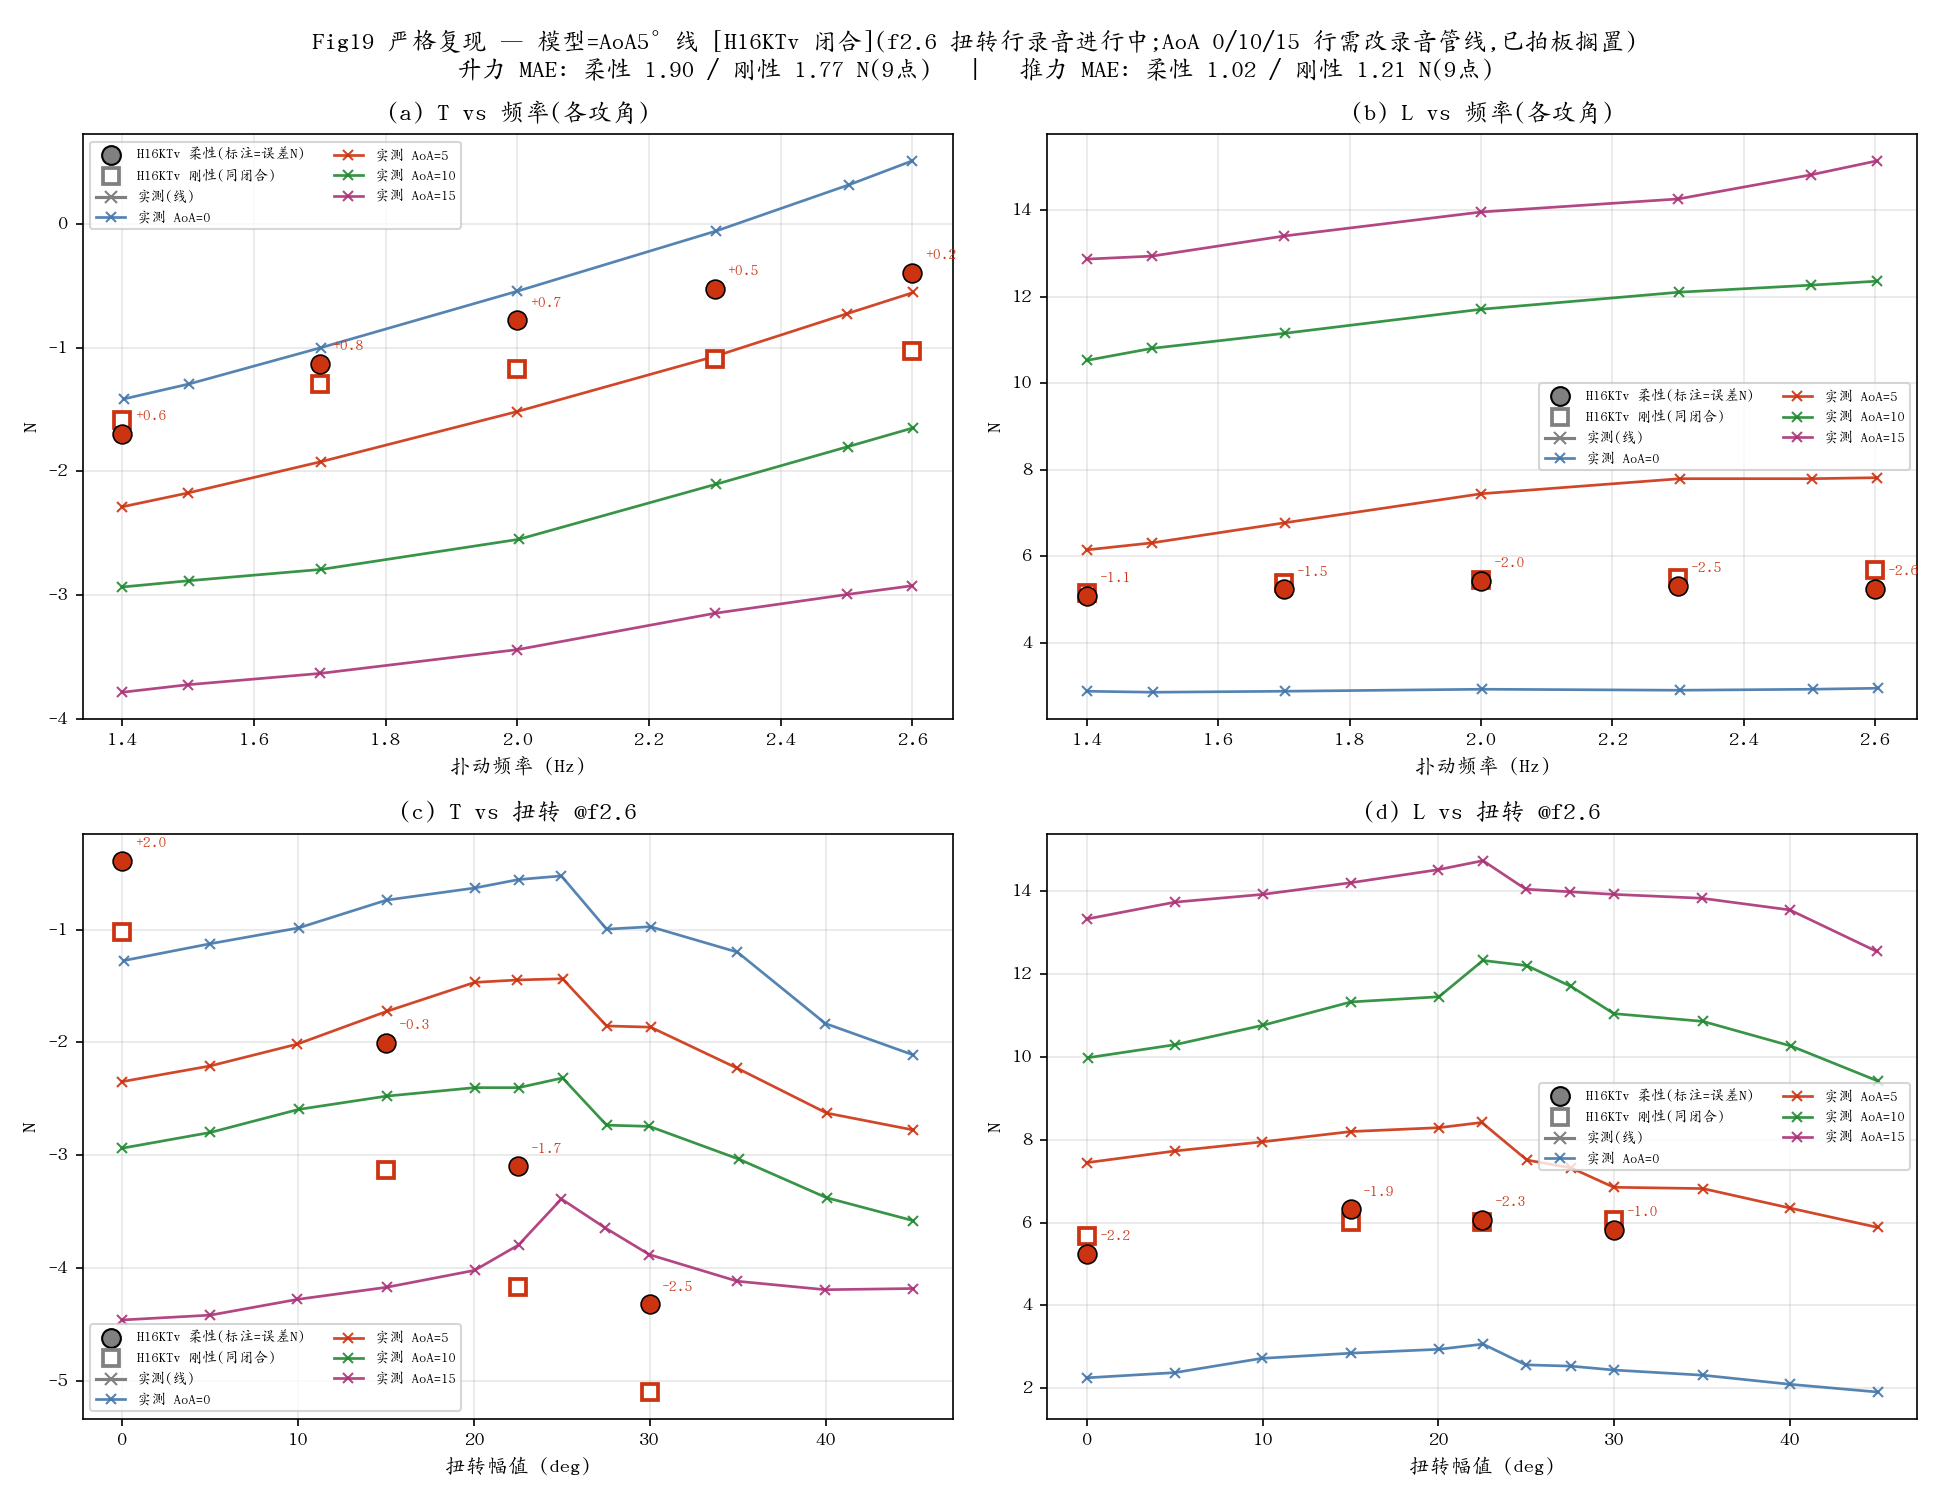
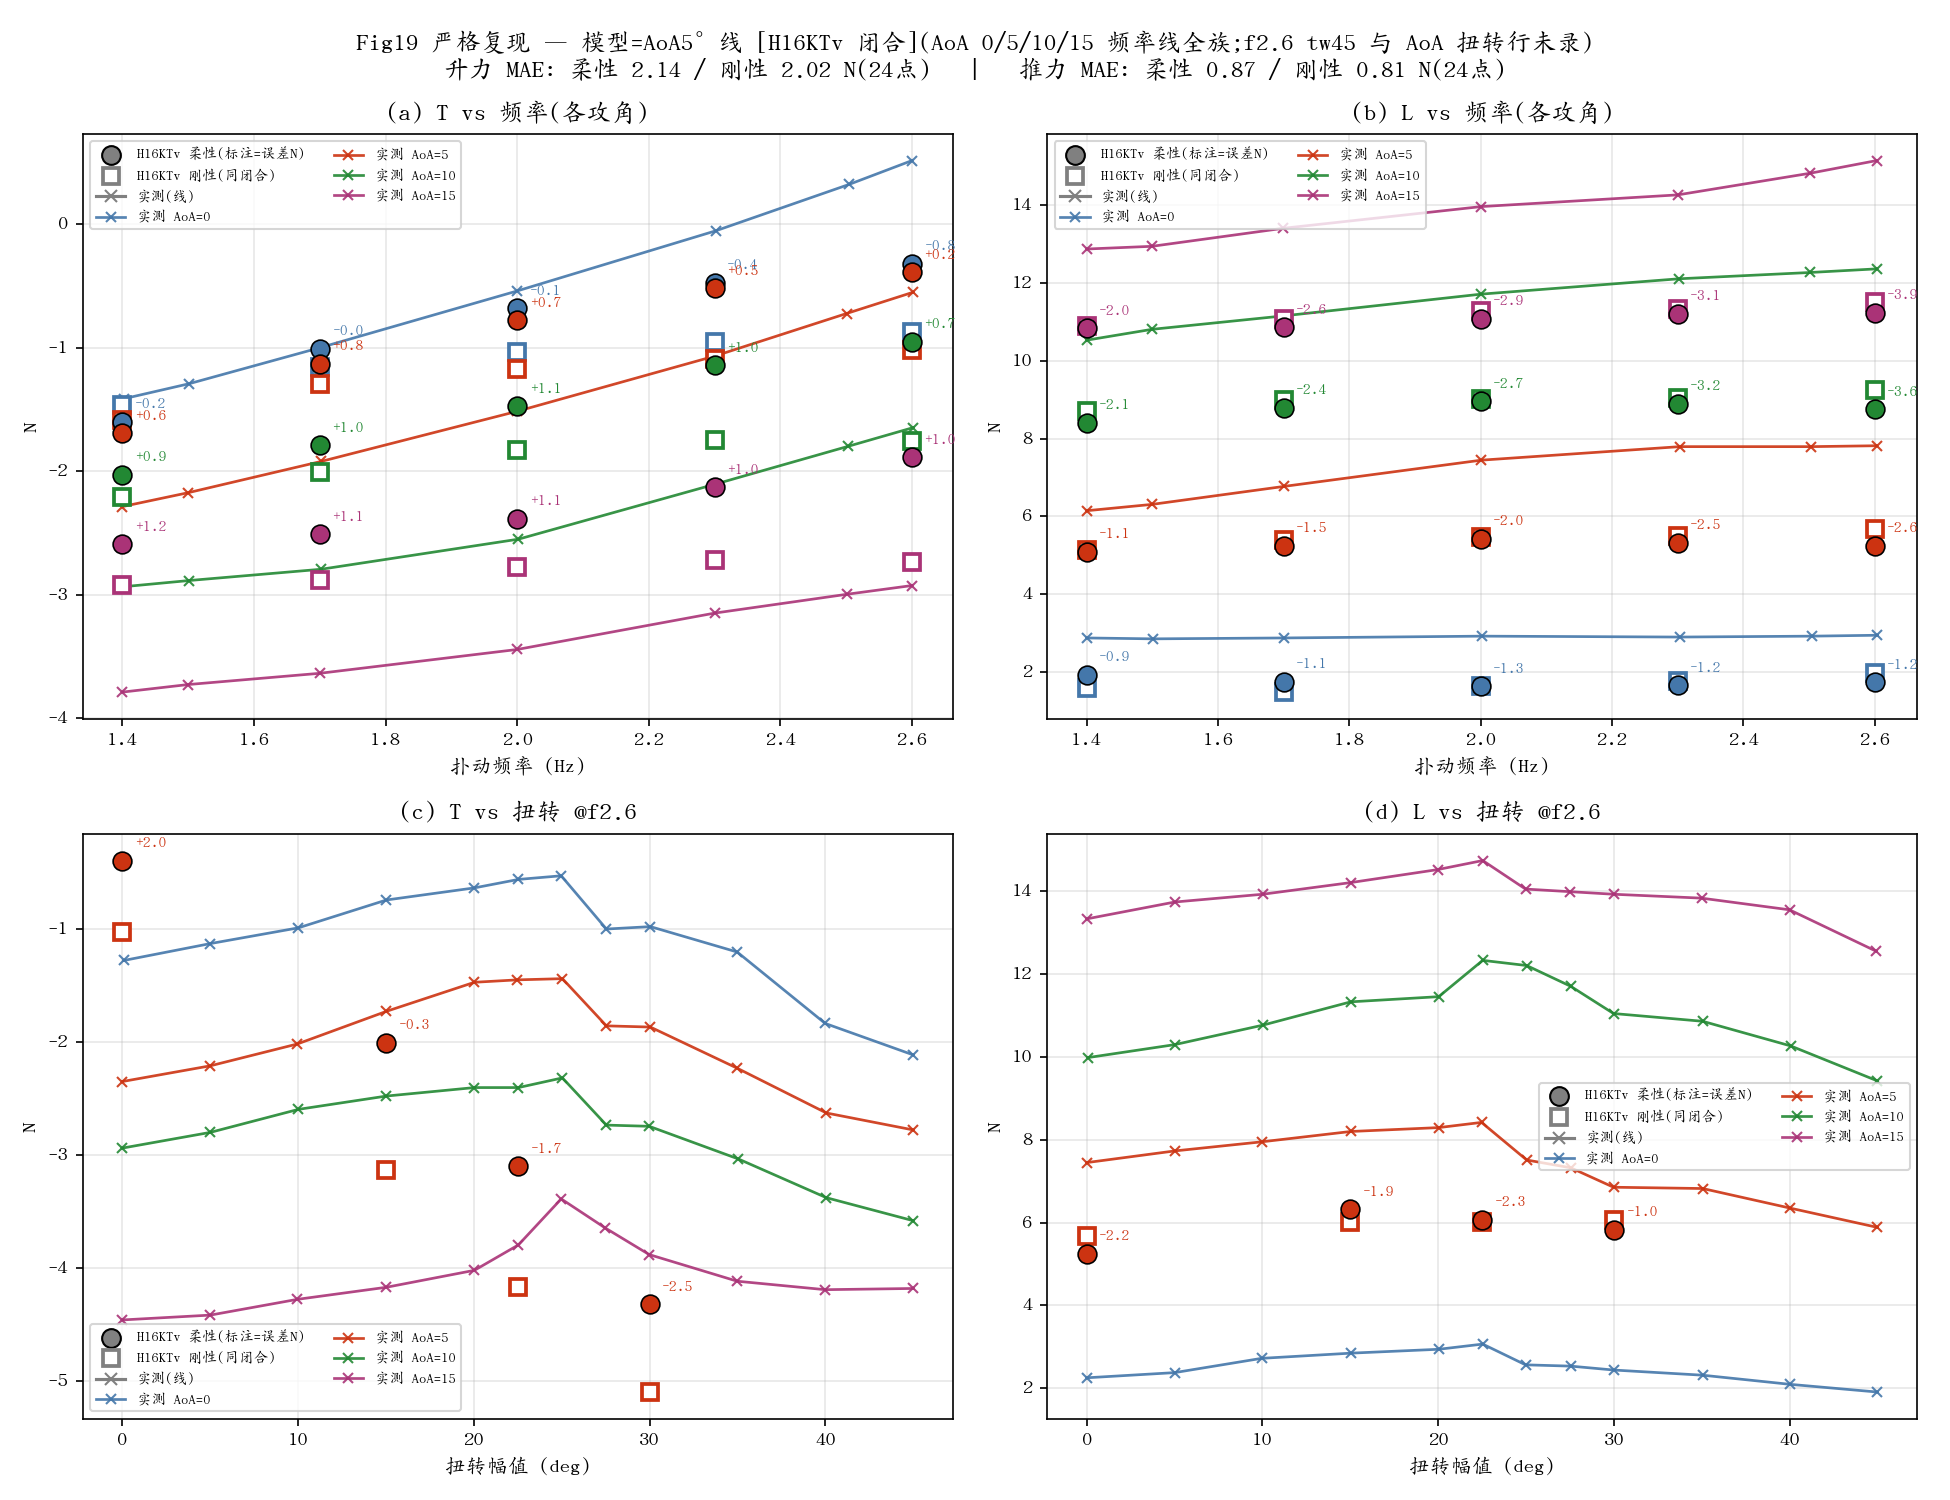
feat(P2-S6): Fig19 full AoA family — thrust generalizes across the envelope
Overnight AoA queue: 13 new coupled recordings (AoA 0/10/15 x 5 freqs,
GPU fast path, zero failures) + H16KTv replays. Fig19(a,b) has model
points on all four AoA lines for the first time.

- Thrust: 24-point family MAE 0.87 N (flex); residual is a clean
  AoA-linear offset (~+0.09 N/deg, matches the archived '+5-8*aoa'
  rigid-campaign term) -> merged into case C's constant-offset docket
- Lift: systematic deficit now has a full fingerprint — grows with
  AoA (~-0.15 N/deg) AND with f (AoA15/f2.6: -3.9 N) -> the lift case
  enters the GAP pipeline with a law, not a single number

diff --git a/platform/p2_s6_fig_strict.py b/platform/p2_s6_fig_strict.py
@@ -34,8 +34,12 @@ _p = os.path.join(DOCS, "s6_results_lessep.json")
 if os.path.exists(_p):
     for k, v in json.load(open(_p)).items():
         if v.get("cfg") == CFG and "flex" in v:
-            U, f, tw = (float(x) for x in k.split("|")[-1].split("_"))
-            PTS[(U, f, tw)] = v
+            parts = k.split("|")[-1].split("_")
+            aoa = 5.0
+            if parts and parts[-1].startswith("aoa"):
+                aoa = float(parts.pop()[3:])
+            U, f, tw = (float(x) for x in parts)
+            PTS[(U, f, tw, aoa)] = v
 
 FREQS = [1.4, 1.7, 2.0, 2.3, 2.6]
 FCOL = {1.4: "#4477aa", 1.7: "#66ccee", 2.0: "#228833", 2.3: "#cc3311",
@@ -70,6 +74,8 @@ def draw_meas(ax, key, color, label=None):
 
 
 def draw_model(ax, x, cond, idx, mkey, color):
+    if len(cond) == 3:
+        cond = cond + (5.0,)
     v = PTS.get(cond)
     if v is None:
         return
@@ -155,9 +161,10 @@ def fig19():
     for a in (0, 5, 10, 15):
         draw_meas(axT, f"19|a|{a}", ACOL[a], f"实测 AoA={a}")
         draw_meas(axL, f"19|b|{a}", ACOL[a], f"实测 AoA={a}")
-    for fr in FREQS:                               # model exists only at AoA=5
-        draw_model(axT, fr, (8.0, fr, 0.0), 1, "19|a|5", ACOL[5])
-        draw_model(axL, fr, (8.0, fr, 0.0), 0, "19|b|5", ACOL[5])
+    for a in (0, 5, 10, 15):                       # 全 AoA 族(B线解锁)
+        for fr in FREQS:
+            draw_model(axT, fr, (8.0, fr, 0.0, float(a)), 1, f"19|a|{a}", ACOL[a])
+            draw_model(axL, fr, (8.0, fr, 0.0, float(a)), 0, f"19|b|{a}", ACOL[a])
     for ax, ttl in ((axT, "(a) T vs 频率(各攻角)"),
                     (axL, "(b) L vs 频率(各攻角)")):
         ax.set_xlabel("扑动频率 (Hz)"); ax.set_ylabel("N")
@@ -175,7 +182,7 @@ def fig19():
         ax.grid(alpha=0.3); ax.set_title(ttl)
         legend_common(ax)
     fig.suptitle(f"Fig19 严格复现 — 模型=AoA5° 线 [{CFG} 闭合]"
-                 "(f2.6 扭转行录音进行中;AoA 0/10/15 行需改录音管线,已拍板搁置)\n"
+                 "(AoA 0/5/10/15 频率线全族;f2.6 tw45 与 AoA 扭转行未录)\n"
                  f"升力 MAE: {_mae(0)}   |   推力 MAE: {_mae(1)}")
     fig.tight_layout()
     fig.savefig(os.path.join(DOCS, "p2_s6_fig19.png"), dpi=150)
